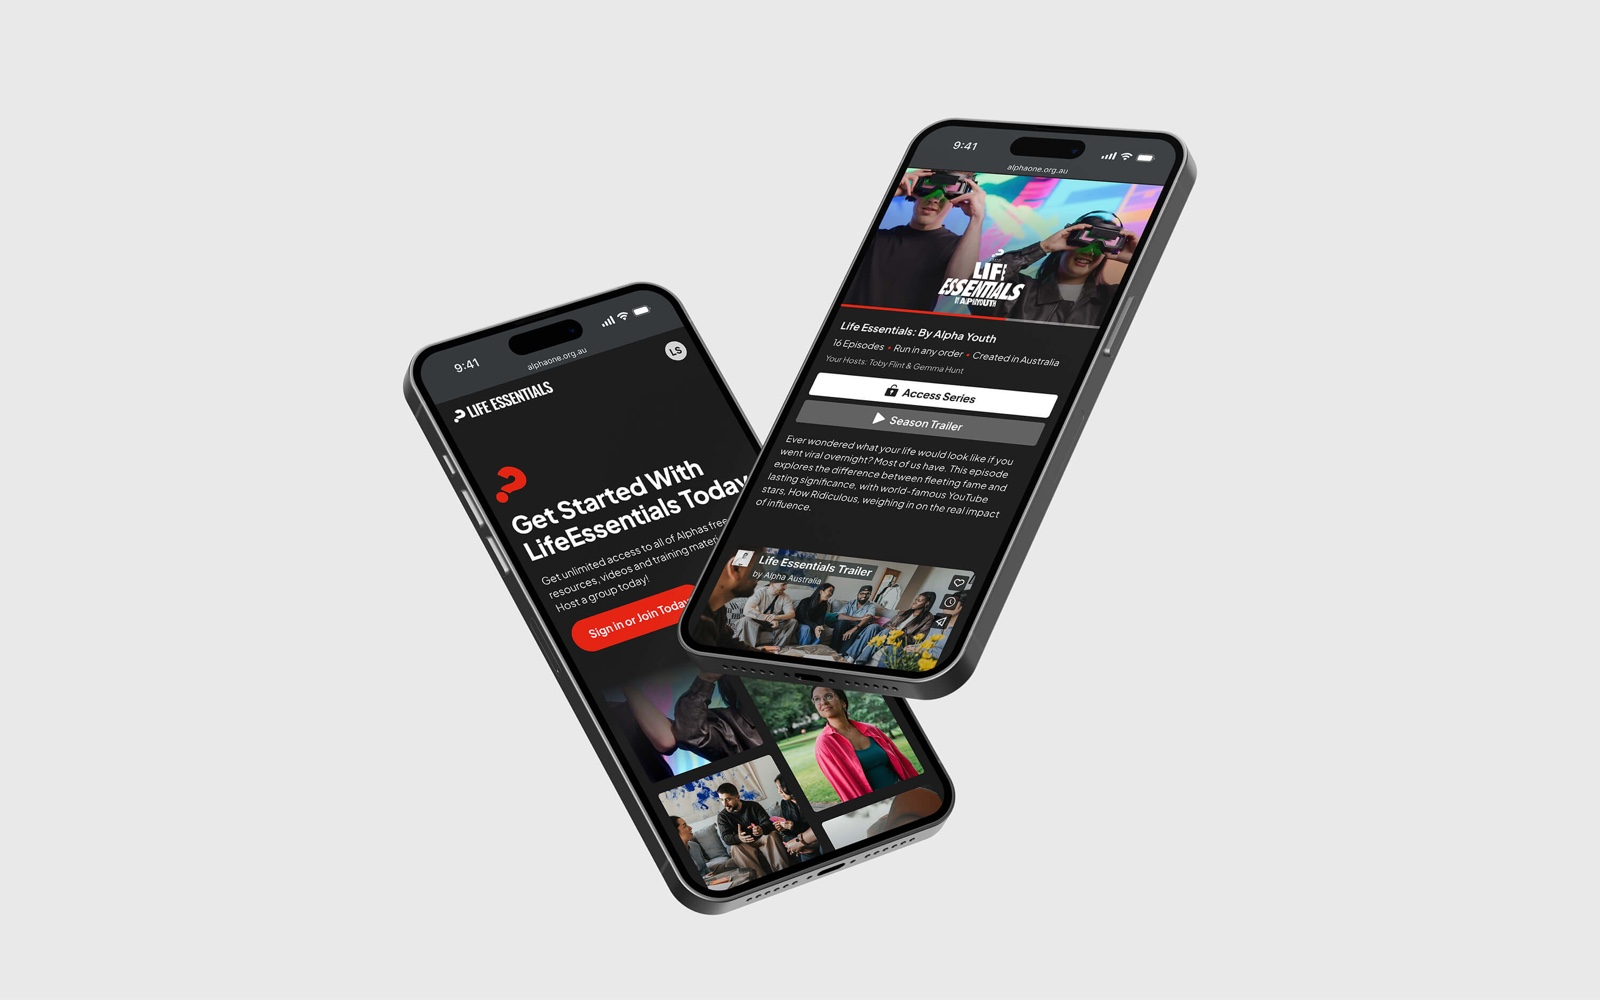
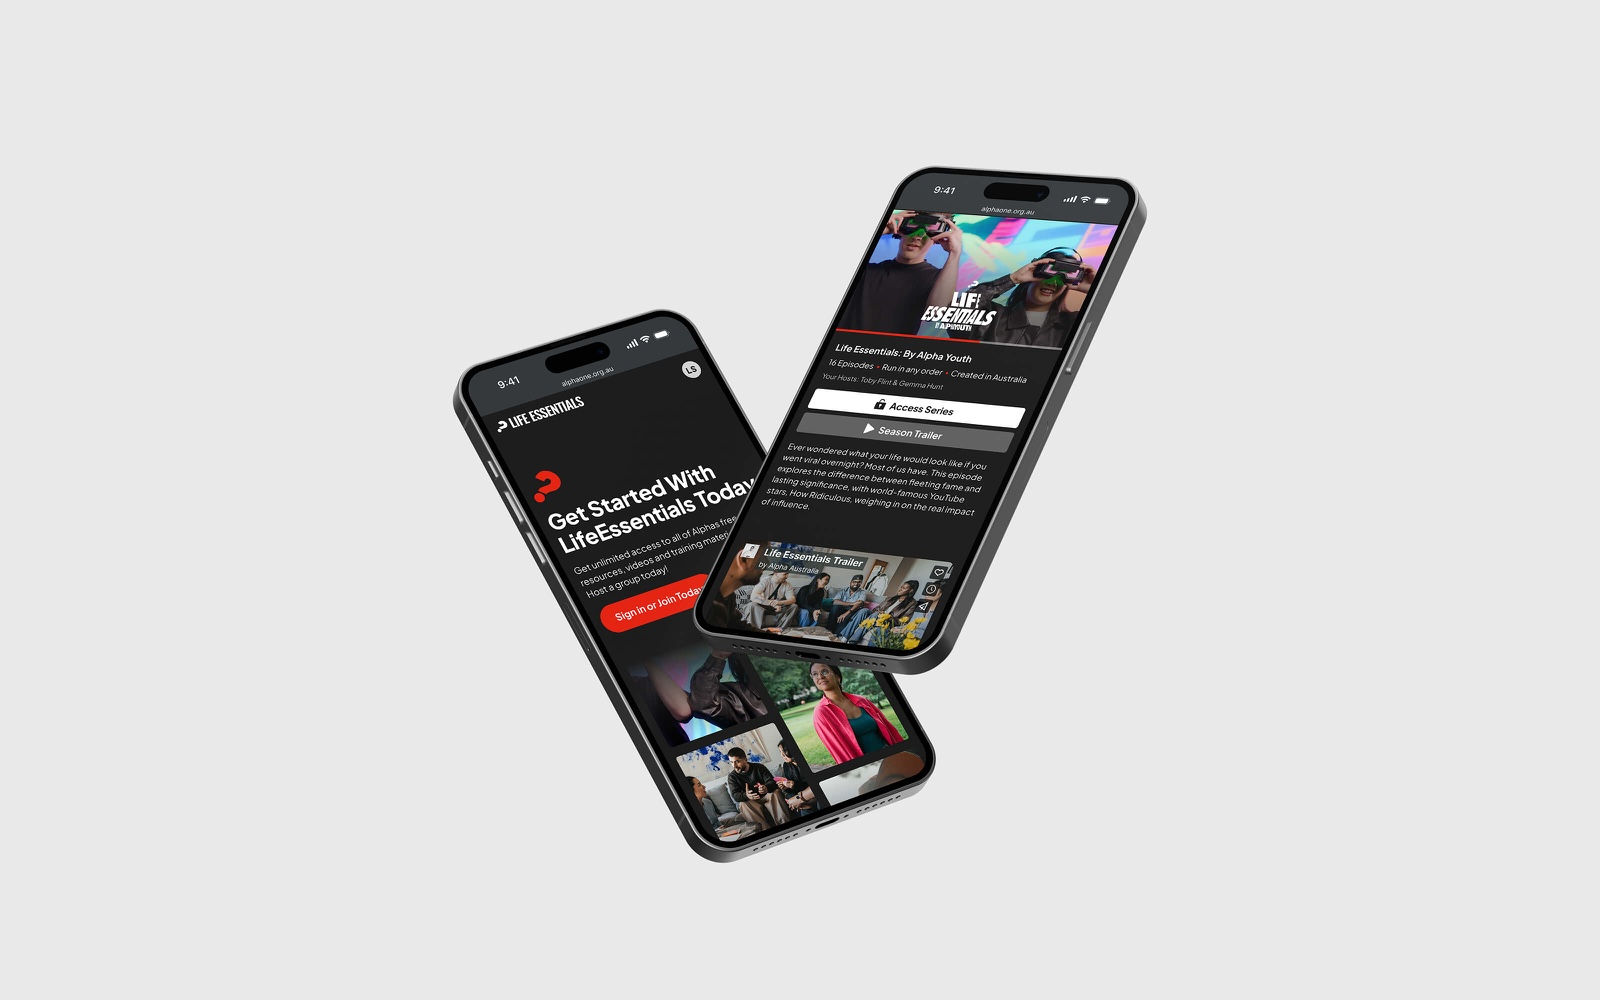
Alpha Life Essentials: updated hero image

Changed region(s): [[0.25, 0.093, 0.75, 0.93]]

diff --git a/projects.js b/projects.js
@@ -240,14 +240,14 @@ window.KODU_PROJECTS = {
     "info": "Video platform for connection",
     "images": [
       {
-        "src": "images/alpha-life-essentials/floatingphones",
+        "src": "images/alpha-life-essentials/floatingphonesmain",
         "widths": [
           1200,
           2000,
           2800
         ],
         "ratio": "16-10",
-        "alt": "Alpha Life Essentials: Floatingphones"
+        "alt": "Alpha Life Essentials: Floatingphonesmain"
       }
     ]
   }
